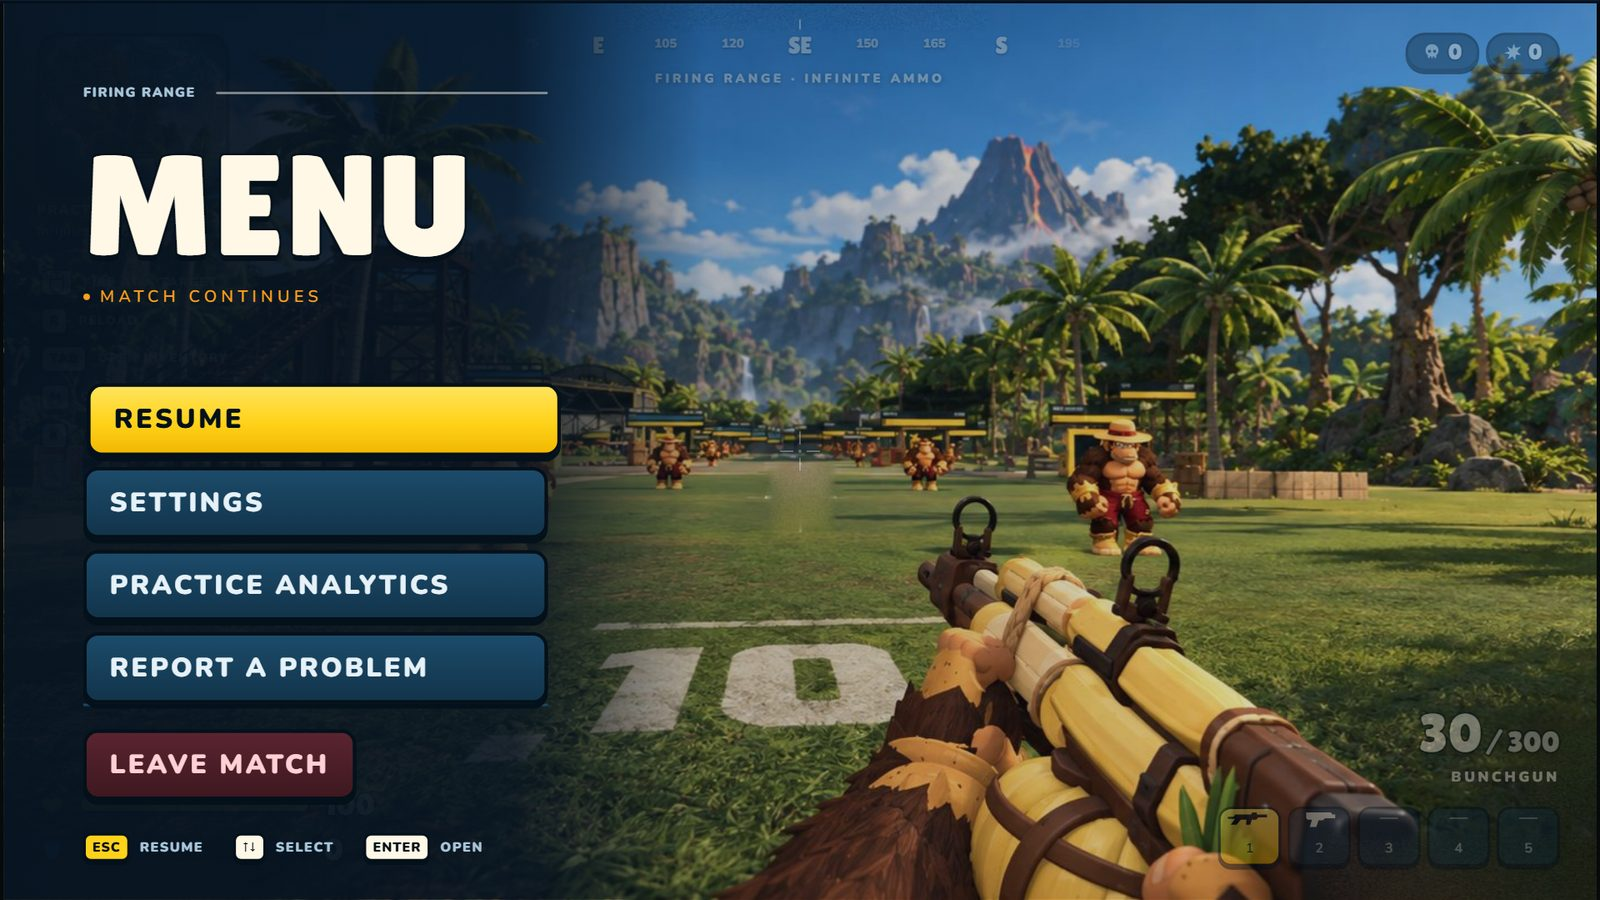
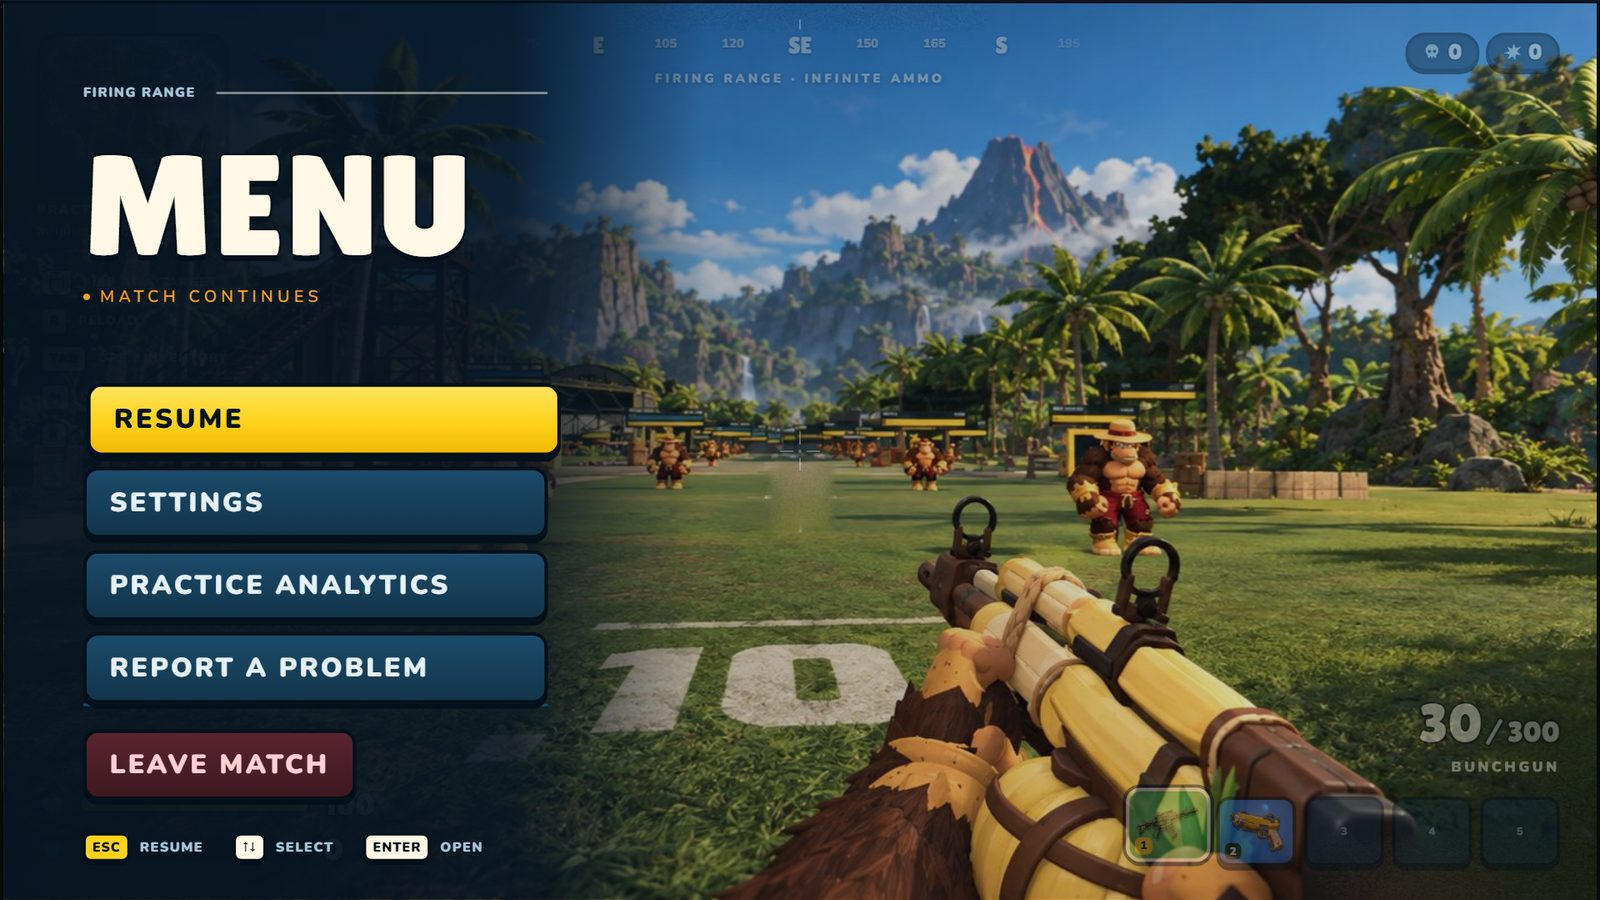
Toon inventory cards use the HUD rarity tiles; recapture Toon screens
Inventory card art now sits on the same radial green/blue rarity tile as
the HUD weapon slots. All 14 Toon screens recaptured so screens with the
HUD behind them (menu and others) show the new weapon slots. Docs and
the Codex bundle updated.

Changed region(s): [[0.6875, 0.8711, 0.8438, 0.9644], [0.875, 0.7778, 1.0, 0.8711], [0.8438, 0.8711, 0.875, 0.9022]]

diff --git a/index.html b/index.html
@@ -7,9 +7,9 @@
 <link rel="preconnect" href="https://fonts.googleapis.com">
 <link rel="preconnect" href="https://fonts.gstatic.com" crossorigin>
 <link rel="stylesheet" href="https://fonts.googleapis.com/css2?family=Changa+One:ital@0;1&family=Lilita+One&family=Nunito:wght@600;700;800;900&family=Barlow:wght@400;500;600;700&family=Barlow+Semi+Condensed:wght@500;600;700&family=JetBrains+Mono:wght@400;500&display=swap">
-<link rel="stylesheet" href="css/site.css?v=20261012c">
-<link rel="stylesheet" href="css/game.css?v=20261012c">
-<link rel="stylesheet" href="css/toon.css?v=20261012c">
+<link rel="stylesheet" href="css/site.css?v=20261012d">
+<link rel="stylesheet" href="css/game.css?v=20261012d">
+<link rel="stylesheet" href="css/toon.css?v=20261012d">
 
 <div id="app">
   <header class="topbar" id="topbar">
@@ -74,7 +74,7 @@
 
 <script src="https://cdnjs.cloudflare.com/ajax/libs/marked/12.0.2/marked.min.js"></script>
 <script src="https://cdnjs.cloudflare.com/ajax/libs/jszip/3.10.1/jszip.min.js"></script>
-<script src="js/data.js?v=20261012c"></script>
-<script src="js/gameplay.js?v=20261012c"></script>
-<script src="js/game.js?v=20261012c"></script>
-<script src="js/site.js?v=20261012c"></script>
+<script src="js/data.js?v=20261012d"></script>
+<script src="js/gameplay.js?v=20261012d"></script>
+<script src="js/game.js?v=20261012d"></script>
+<script src="js/site.js?v=20261012d"></script>

diff --git a/css/toon.css b/css/toon.css
@@ -360,3 +360,9 @@ html[data-ds="toon"] .stage .slot .slot-n { position: absolute; left: 6px; botto
 html[data-ds="toon"] .stage .slot.empty .slot-n { left: 50%; transform: translateX(-50%); bottom: 50%; margin-bottom: -10px; background: transparent; color: #7FA3BC; }
 html[data-ds="toon"] .stage .slot.on { background-color: transparent; color: inherit; transform: translateY(-8px) scale(1.06); border-color: #FFF8E7; box-shadow: 0 5px 0 var(--o), 0 0 0 4px var(--o), 0 0 22px rgba(255,210,26,.7); }
 html[data-ds="toon"] .stage .slot.on .slot-n { background: var(--kong-accent); color: var(--o); }
+
+/* Inventory cards use the same rarity tiles as the HUD weapon slots */
+html[data-ds="toon"] .stage .k-card:not(.empty), html[data-ds="toon"] .k-scope .k-card:not(.empty) { background: linear-gradient(180deg, #12344B, #0B2233); }
+html[data-ds="toon"] .stage .k-card.r-common .art, html[data-ds="toon"] .k-scope .k-card.r-common .art { background: radial-gradient(ellipse 70% 80% at 50% 45%, #8BE08F 0%, #4CC35A 45%, #2C8A3A 100%); }
+html[data-ds="toon"] .stage .k-card.r-rare .art, html[data-ds="toon"] .k-scope .k-card.r-rare .art { background: radial-gradient(ellipse 70% 80% at 50% 45%, #7FB8FF 0%, #2F8BFF 45%, #1A56B8 100%); }
+html[data-ds="toon"] .stage .k-card .art img, html[data-ds="toon"] .k-scope .k-card .art img { filter: drop-shadow(0 5px 0 rgba(4,16,26,.55)); }

diff --git a/design/kong-toon/reference/toon-prototype.css b/design/kong-toon/reference/toon-prototype.css
@@ -360,3 +360,9 @@ html[data-ds="toon"] .stage .slot .slot-n { position: absolute; left: 6px; botto
 html[data-ds="toon"] .stage .slot.empty .slot-n { left: 50%; transform: translateX(-50%); bottom: 50%; margin-bottom: -10px; background: transparent; color: #7FA3BC; }
 html[data-ds="toon"] .stage .slot.on { background-color: transparent; color: inherit; transform: translateY(-8px) scale(1.06); border-color: #FFF8E7; box-shadow: 0 5px 0 var(--o), 0 0 0 4px var(--o), 0 0 22px rgba(255,210,26,.7); }
 html[data-ds="toon"] .stage .slot.on .slot-n { background: var(--kong-accent); color: var(--o); }
+
+/* Inventory cards use the same rarity tiles as the HUD weapon slots */
+html[data-ds="toon"] .stage .k-card:not(.empty), html[data-ds="toon"] .k-scope .k-card:not(.empty) { background: linear-gradient(180deg, #12344B, #0B2233); }
+html[data-ds="toon"] .stage .k-card.r-common .art, html[data-ds="toon"] .k-scope .k-card.r-common .art { background: radial-gradient(ellipse 70% 80% at 50% 45%, #8BE08F 0%, #4CC35A 45%, #2C8A3A 100%); }
+html[data-ds="toon"] .stage .k-card.r-rare .art, html[data-ds="toon"] .k-scope .k-card.r-rare .art { background: radial-gradient(ellipse 70% 80% at 50% 45%, #7FB8FF 0%, #2F8BFF 45%, #1A56B8 100%); }
+html[data-ds="toon"] .stage .k-card .art img, html[data-ds="toon"] .k-scope .k-card .art img { filter: drop-shadow(0 5px 0 rgba(4,16,26,.55)); }

diff --git a/design/kong-toon/design-system.md b/design/kong-toon/design-system.md
@@ -86,7 +86,7 @@ Slider: 14px rounded track, yellow gradient fill, a 30px ivory thumb with outlin
 Ivory caps with dark text, 3px outline and a 4px drop. Accent keycaps (Enter, Esc in hints) are yellow. Unbound keys are red.
 
 ### Inventory card
-The whole card is filled with its rarity colour fading into navy, like the original game: green for common, blue for rare. A white glow behind the art, a pill rarity label, a numbered index chip. Selected = ivory outline plus a soft yellow glow; Equipped = yellow pill badge. Empty slots are dashed and quiet.
+The art area is a rarity tile, the same one the HUD weapon slots use: a radial green (common) or blue (rare) gradient behind the weapon, like the original game. The rest of the card is navy. a pill rarity label, a numbered index chip. Selected = ivory outline plus a soft yellow glow; Equipped = yellow pill badge. Empty slots are dashed and quiet.
 
 ### HUD
 Health and shield are thick outlined capsule bars (yellow and blue gradients) with outlined Lilita numbers. Weapon slots are outlined tiles showing the weapon's art on its rarity colour (green common, blue rare, radial gradient), like the original HUD. The equipped slot lifts 8px, scales up slightly and gets an ivory outline with a soft yellow glow; its slot number chip turns yellow. Empty slots are quiet navy tiles with a centred number. Match stats are rounded outlined chips: squads and players left on top, then kills, assists, squad kills and damage. Minimap gets rounded outlined corners.

diff --git a/downloads/kong-design-system-toon.md b/downloads/kong-design-system-toon.md
@@ -86,7 +86,7 @@ Slider: 14px rounded track, yellow gradient fill, a 30px ivory thumb with outlin
 Ivory caps with dark text, 3px outline and a 4px drop. Accent keycaps (Enter, Esc in hints) are yellow. Unbound keys are red.
 
 ### Inventory card
-The whole card is filled with its rarity colour fading into navy, like the original game: green for common, blue for rare. A white glow behind the art, a pill rarity label, a numbered index chip. Selected = ivory outline plus a soft yellow glow; Equipped = yellow pill badge. Empty slots are dashed and quiet.
+The art area is a rarity tile, the same one the HUD weapon slots use: a radial green (common) or blue (rare) gradient behind the weapon, like the original game. The rest of the card is navy. a pill rarity label, a numbered index chip. Selected = ivory outline plus a soft yellow glow; Equipped = yellow pill badge. Empty slots are dashed and quiet.
 
 ### HUD
 Health and shield are thick outlined capsule bars (yellow and blue gradients) with outlined Lilita numbers. Weapon slots are outlined tiles showing the weapon's art on its rarity colour (green common, blue rare, radial gradient), like the original HUD. The equipped slot lifts 8px, scales up slightly and gets an ivory outline with a soft yellow glow; its slot number chip turns yellow. Empty slots are quiet navy tiles with a centred number. Match stats are rounded outlined chips: squads and players left on top, then kills, assists, squad kills and damage. Minimap gets rounded outlined corners.
